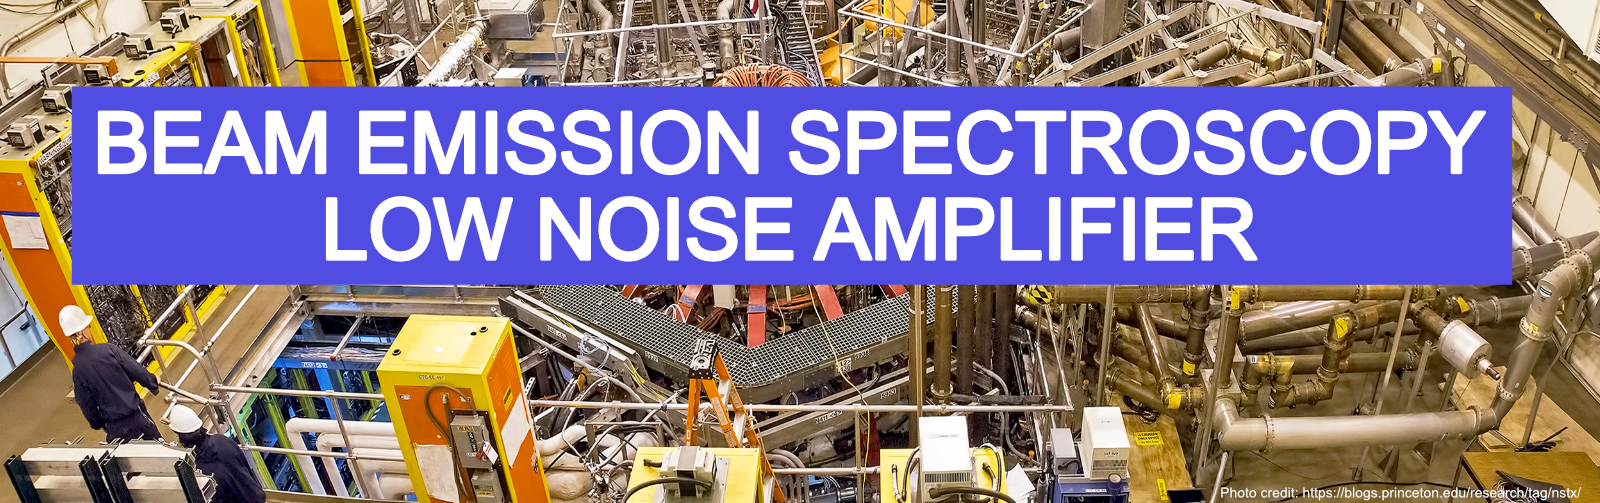
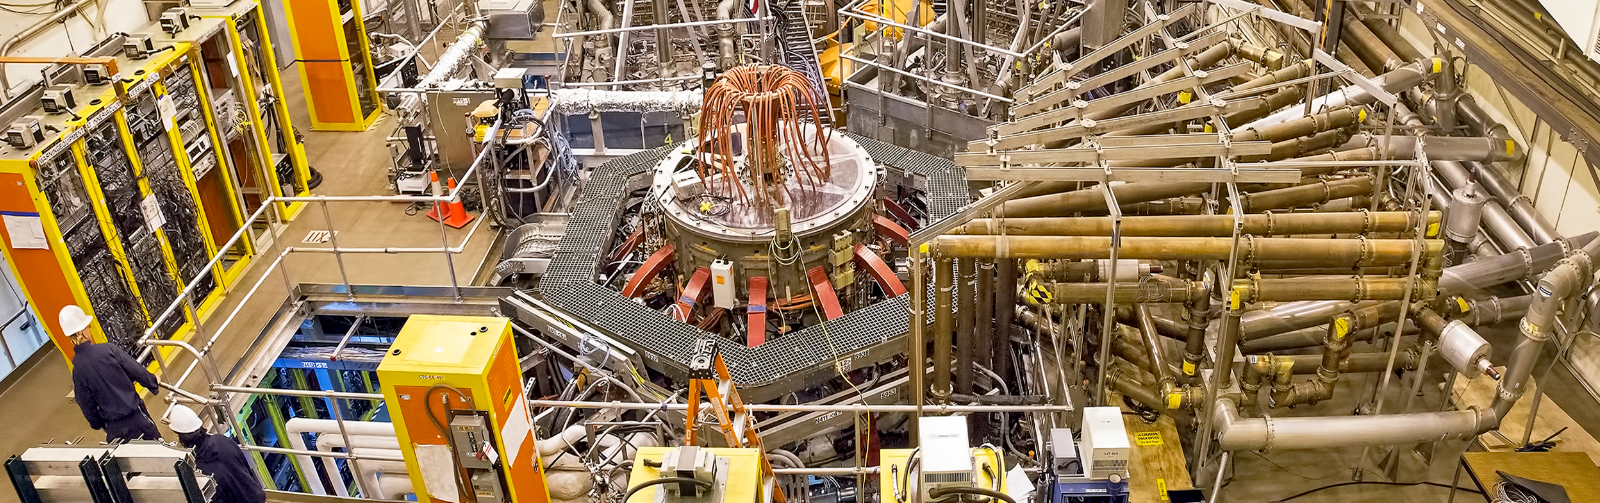
Added widget

diff --git a/pages/pages-root-folder/index.md b/pages/pages-root-folder/index.md
@@ -23,10 +23,10 @@ widget3:
   image: MEQALAC_Thumbnail.jpg
   text: 'Looking for the sparknotes version? Click here for an overview of my past and present research.'
 widget3:
-	title: "Research Overview"
-	url: 'https://grant-giesbrecht.github.io/projects/'
+   title: "Research Overview"
+   url: 'https://grant-giesbrecht.github.io/projects/'
 	image: MEQALAC_Thumbnail.jpg
-	text: 'Looking for the sparknotes version? Click here for an overview of my past and present research.'
+   text: 'Looking for the sparknotes version? Click here for an overview of my past and present research.'
 #
 # Use the call for action to show a button on the frontpage
 #

diff --git a/_posts/projects/2022-12-31-bes.md b/_posts/projects/2022-12-31-bes.md
@@ -6,6 +6,7 @@ teaser: "Research Project"
 categories:
     - projects
 header:
+   title: Beam Emission Spectroscopy Low Noise Amplifier
    image_fullwidth: "bes_header.png"
    background-color: "#EFC94C;"
 ---
